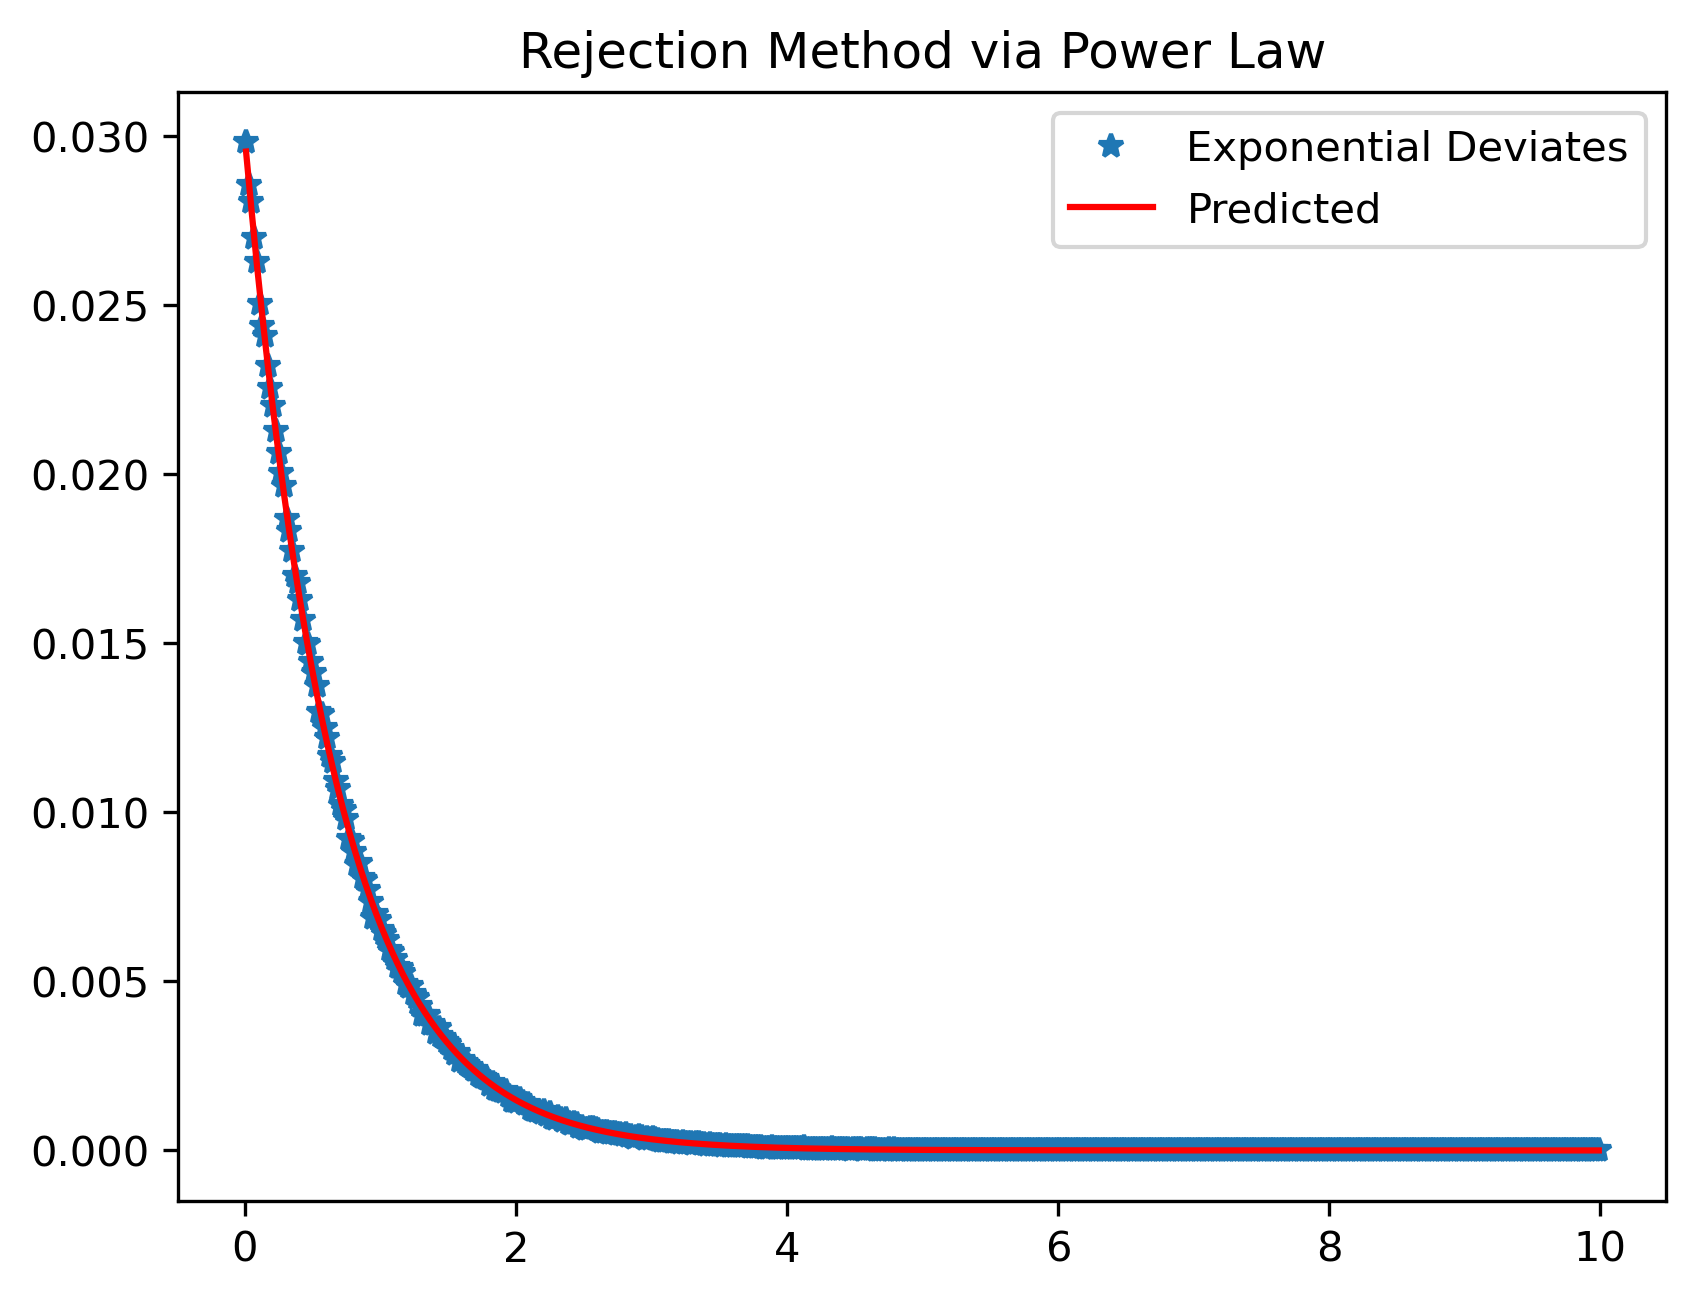
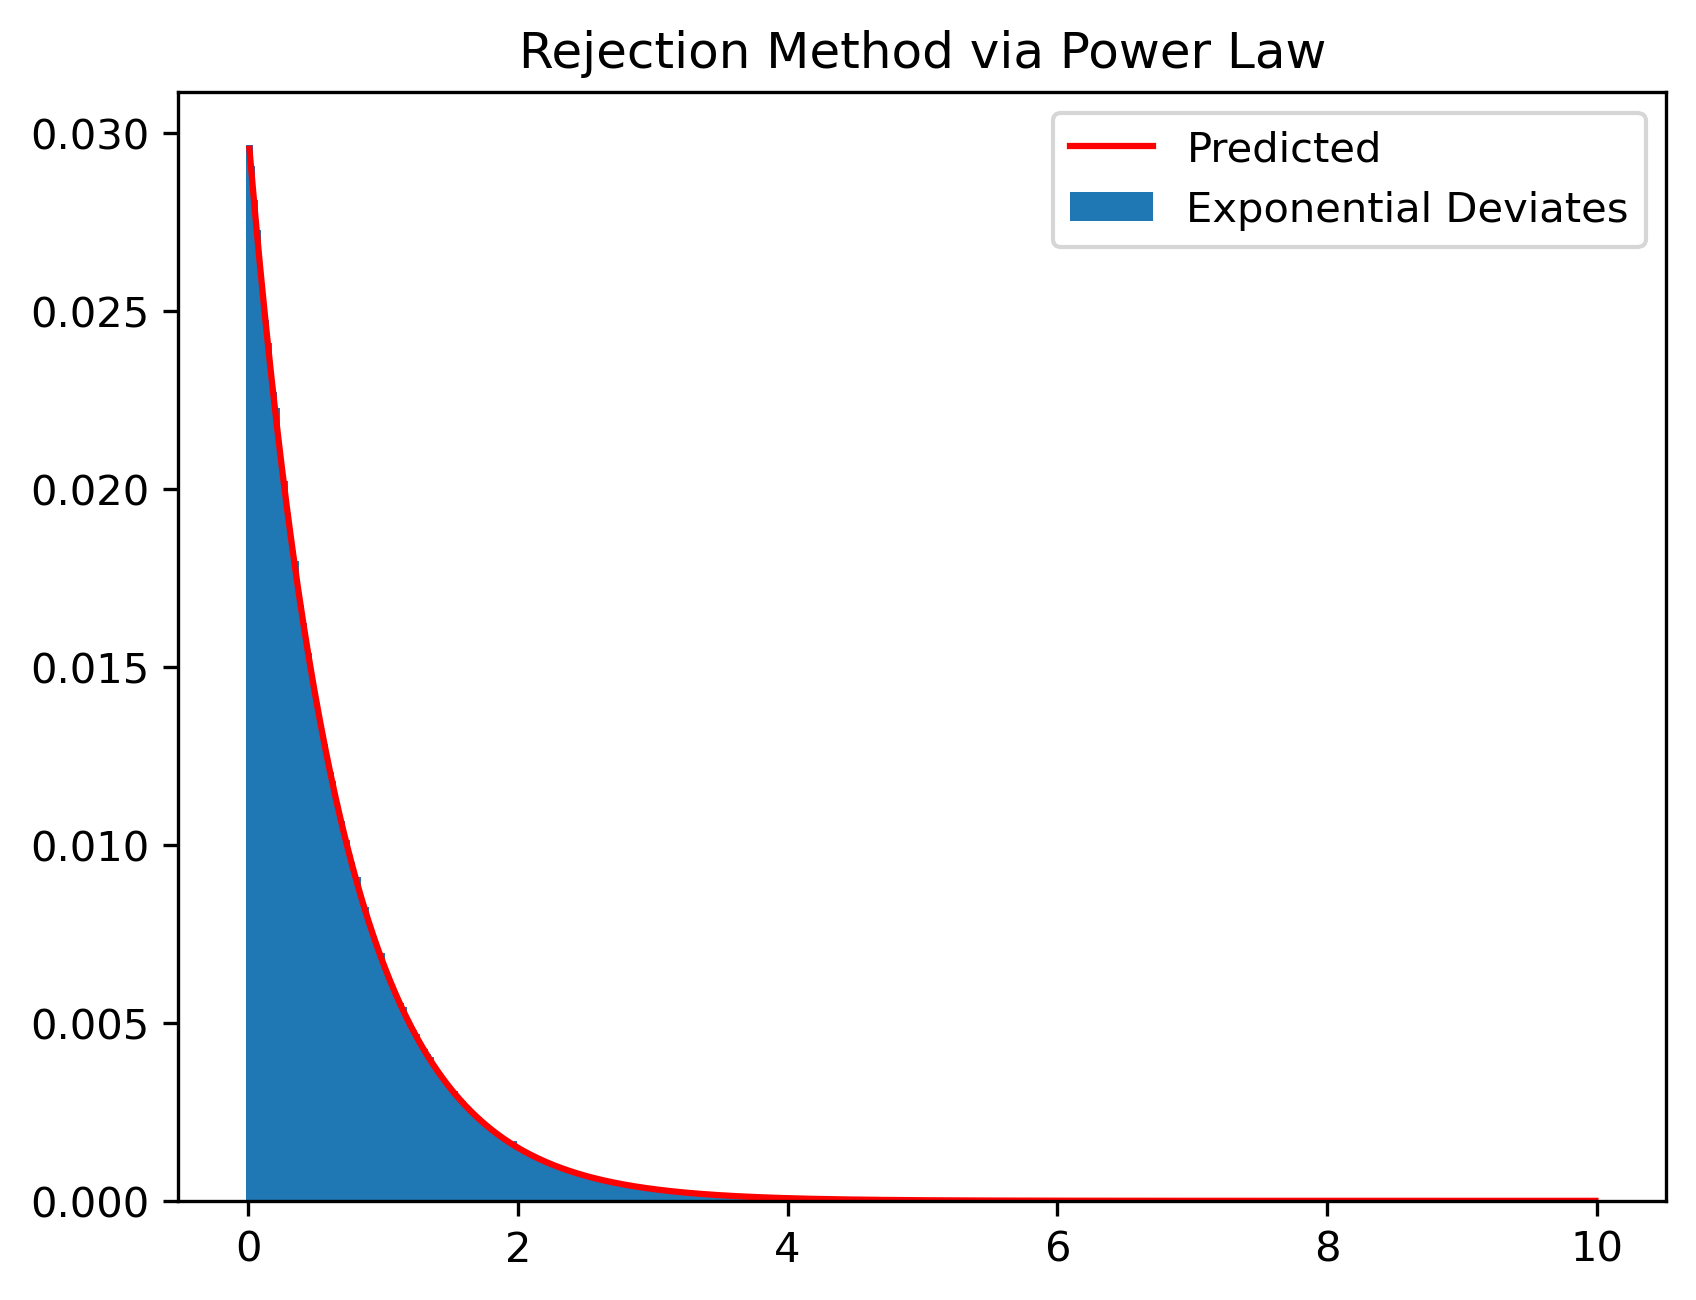
1035

diff --git a/problem_sets/ps7/ps7_2.py b/problem_sets/ps7/ps7_2.py
@@ -34,15 +34,19 @@ y=1.5/(1+t**2)*np.random.rand(n)*2
 accept=y<np.exp(-alpha*t)
 t_use=t[accept]
 
+eff_loz = len(t_use)/len(t)
+print(f'The efficiency of the Lorenztian bounding distribution is: {eff_loz}.')
+
 aa,bb=np.histogram(t_use,bins)
+b = 0.5*(bb[1:] + bb[:-1])
 aa = aa/aa.sum()
 exp = myexp/myexp.sum()
-# plt.plot(cents, aa, '*', label = 'Exponential Deviates')
-# plt.plot(cents, exp, 'r', label = 'Predicted')
-# plt.title('Rejection Method via Lorenz')
-# plt.legend()
-# plt.savefig('Reject_Lor.png',dpi = 300, bbox_inches = 'tight')
-# plt.show()
+plt.bar(b, aa, 0.05, label = 'Exponential Deviates')
+plt.plot(b, exp, 'r', label = 'Predicted')
+plt.title('Rejection Method via Lorenz')
+plt.legend()
+plt.savefig('Reject_Lor.png',dpi = 300, bbox_inches = 'tight')
+plt.show()
 
 # rejection method via power laws
 
@@ -56,9 +60,12 @@ print(t_use_p)
 
 aa_pow,bb=np.histogram(t_use_p,bins + 1)
 aa_pow = aa_pow/aa_pow.sum()
-plt.plot(cents , aa_pow, '*', label = 'Exponential Deviates')
+plt.bar(cents , aa_pow, 0.05, label = 'Exponential Deviates')
 plt.plot(cents , exp, 'r', label = 'Predicted')
 plt.title('Rejection Method via Power Law')
 plt.legend()
 plt.savefig('Reject_Pow.png',dpi = 300, bbox_inches = 'tight')
 plt.show()
+
+eff_pow = len(t_use_p)/len(t_pow)
+print(f'The efficiency of the Lorenztian bounding distribution is: {eff_pow}.')

diff --git a/problem_sets/ps7/ps7_3.py b/problem_sets/ps7/ps7_3.py
@@ -1,0 +1,32 @@
+import numpy as np
+import matplotlib.pyplot as plt
+
+n=100000
+u=np.random.rand(n)
+v=(np.random.rand(n)*2-1)*0.86
+
+r=v/u
+
+alpha = 1.5
+
+accept=u<np.sqrt(np.exp(-alpha*r))
+t=r[accept]
+
+bins=np.linspace(0,10,501)
+cents=0.5*(bins[1:]+bins[:-1])
+
+myexp = np.exp(-alpha*cents)
+
+aa,bb=np.histogram(t,bins)
+b = 0.5*(bb[1:] + bb[:-1])
+aa = aa/aa.sum()
+exp = myexp/myexp.sum()
+plt.bar(b, aa, 0.05, label = 'Exponential Deviates')
+plt.plot(cents, exp, 'r', label = 'Predicted')
+plt.title('Rejection Method via Ratio-of-Uniform Generator ')
+plt.legend()
+plt.savefig('Reject_ru.png',dpi = 300, bbox_inches = 'tight')
+plt.show()
+
+eff_ru = len(t)/len(r)
+print(f'The efficiency of Ratio-of-Uniform Generator is {eff_ru}')
